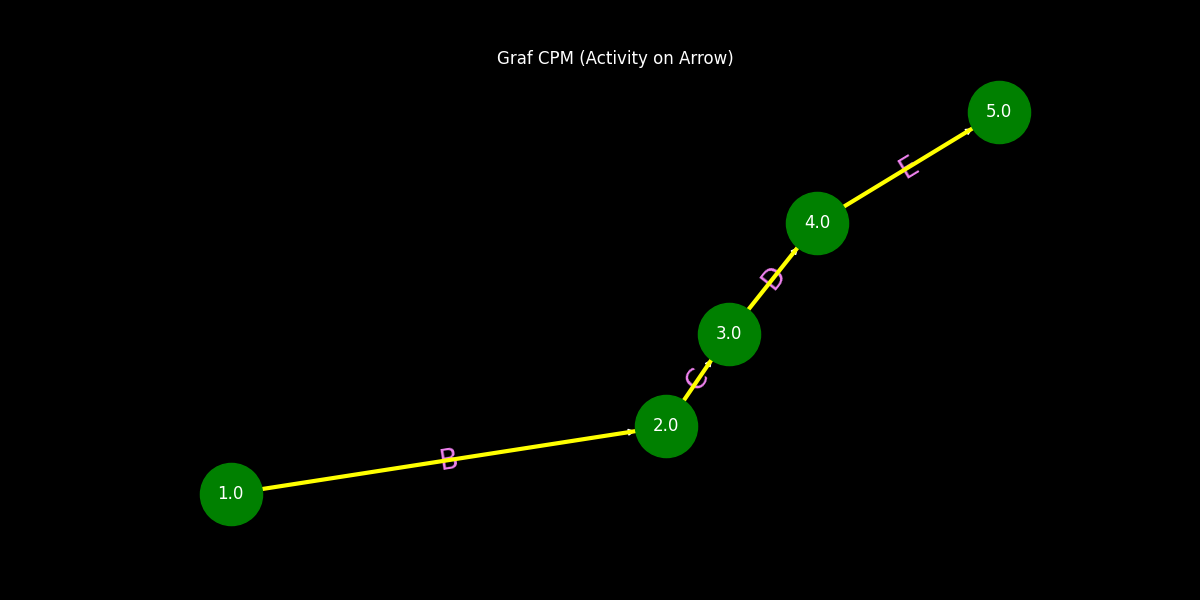
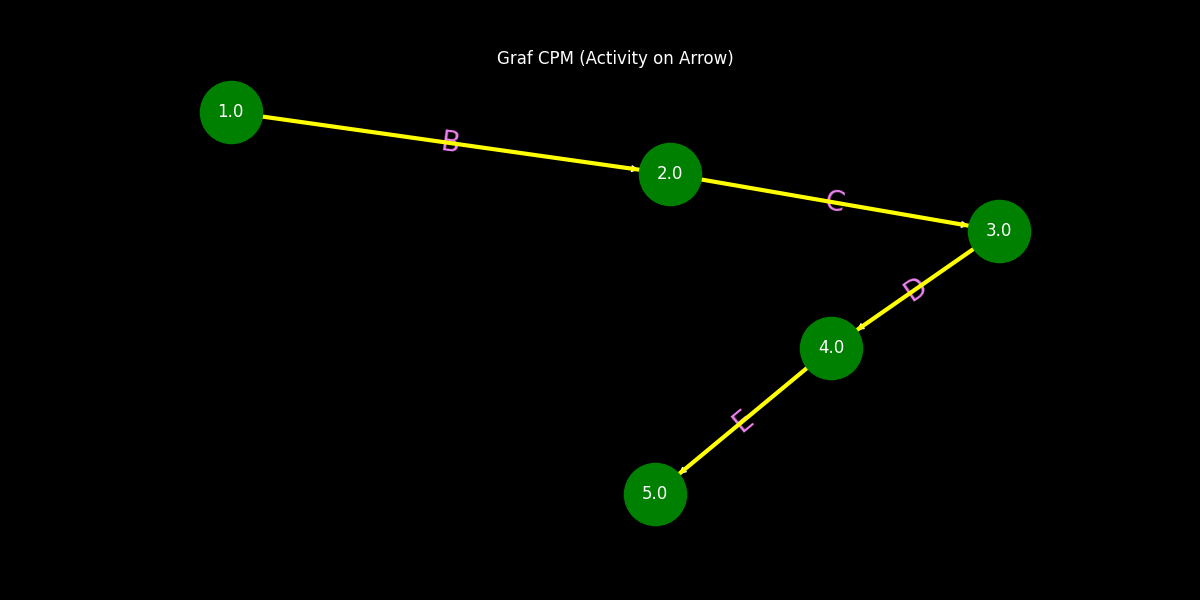
Aplikacja CPM - 1.1.3 - Względne Rozwiązanie

diff --git a/Script.js b/Script.js
@@ -100,7 +100,6 @@ function generateCPM() {
             duration: calc.earliest_finish - calc.earliest_start,
             earliest_start: calc.earliest_start
         }));
-        console.log("Tasks for Gantt:", ganttTasks); // Debug log
 
         // Call Python API to visualize CPM graph (Activity on Node)
         window.pywebview.api.visualize_cpm_graph_aon(tasks, response.critical_path).then(resp => {
@@ -110,19 +109,19 @@ function generateCPM() {
             // Call Python API to visualize CPM graph (Activity on Arrow)
             window.pywebview.api.visualize_cpm_graph(tasks, response.critical_path).then(resp => {
                 container.innerHTML += `<img src="${resp.graph_path}" style="width: 100%; margin-top: 20px;"/>`;
+
+                // Call Python API to visualize the Gantt chart in the third card
+                window.pywebview.api.visualize_gantt_chart(ganttTasks).then(resp => {
+                    let ganttCardContainer = document.querySelector('#card3 #ganttChartContainer');
+                    ganttCardContainer.innerHTML = `<img src="${resp.graph_path}" style="width: 100%;"/>`;
+                    // showCard(3); // Comment or remove this to avoid switching to card 3 automatically
+                }).catch(error => {
+                    console.error("Error generating Gantt chart:", error);
+                    alert("Wystąpił błąd podczas generowania wykresu Gantta.");
+                });
             }).catch(error => {
                 console.error("Error generating CPM graph (arrow):", error);
                 alert("Wystąpił błąd podczas generowania grafu CPM (arrow).");
-            });
-
-            // Call Python API to visualize the Gantt chart in the third card
-            window.pywebview.api.visualize_gantt_chart(ganttTasks).then(resp => {
-                let ganttCardContainer = document.querySelector('#card3 #ganttChartContainer');
-                ganttCardContainer.innerHTML = `<img src="${resp.graph_path}" style="width: 100%;"/>`;
-                // showCard(3); // Comment or remove this to avoid switching to card 3 automatically
-            }).catch(error => {
-                console.error("Error generating Gantt chart:", error);
-                alert("Wystąpił błąd podczas generowania wykresu Gantta.");
             });
         }).catch(error => {
             console.error("Error generating CPM graph (node):", error);

diff --git a/CPMGrafy.py b/CPMGrafy.py
@@ -5,10 +5,9 @@ matplotlib.use("Agg")
 import networkx as nx
 
 import matplotlib.pyplot as plt
-
+import uuid  # Add this import to generate unique filenames
 
 def visualize_cpm_graph(tasks, critical_path=None): # Wizualizacja Grafu CPM Activity on Arrow
-
     G = nx.DiGraph()
 
     for task in tasks:
@@ -17,7 +16,6 @@ def visualize_cpm_graph(tasks, critical_path=None): # Wizualizacja Grafu CPM Act
             for dep in task["dependencies"].split(','):
                 G.add_edge(dep.strip(), task["name"])
 
-    # Change from nx.planar_layout to nx.spring_layout
     pos = nx.spring_layout(G)
 
     plt.figure(figsize=(12, 6))
@@ -41,15 +39,15 @@ def visualize_cpm_graph(tasks, critical_path=None): # Wizualizacja Grafu CPM Act
         nx.draw_networkx_edges(G, pos, edgelist=crit_edges, width=3, edge_color='yellow', arrows=True, arrowstyle='-|>', arrowsize=20)
 
     plt.title("Graf CPM (Activity on Arrow)", color='white')
-    plt.savefig("cpm_graph_aoa.png", facecolor='black')
+    filename = f"cpm_graph_aoa_{uuid.uuid4()}.png"  # Generate a unique filename
+    plt.savefig(filename, facecolor='black')
     plt.close()
     plt.clf()  # Clear the figure
 
-    return "cpm_graph_aoa.png"
+    return filename
 
 
 def visualize_cpm_graph_aon(tasks, critical_path=None):
-
     G = nx.DiGraph()
 
     for task in tasks:
@@ -70,7 +68,9 @@ def visualize_cpm_graph_aon(tasks, critical_path=None):
         nx.draw_networkx_edges(G, pos, edgelist=crit_edges, width=3, edge_color='yellow', arrows=True, arrowstyle='-|>', arrowsize=20)
 
     plt.title("Graf CPM (Activity on Node)", color='white')
-    plt.savefig("cpm_graph_aon.png", facecolor='black')
+    filename = f"cpm_graph_aon_{uuid.uuid4()}.png"  # Generate a unique filename
+    plt.savefig(filename, facecolor='black')
     plt.close()
+    plt.clf()  # Clear the figure
 
-    return "cpm_graph_aon.png"
+    return filename

diff --git a/CPMGantt.py b/CPMGantt.py
@@ -45,5 +45,7 @@ def visualize_gantt_chart(tasks):
     plt.savefig("gantt_chart.png", facecolor='black')
 
     plt.close()
+
+    plt.clf() 
     
     return "gantt_chart.png"
